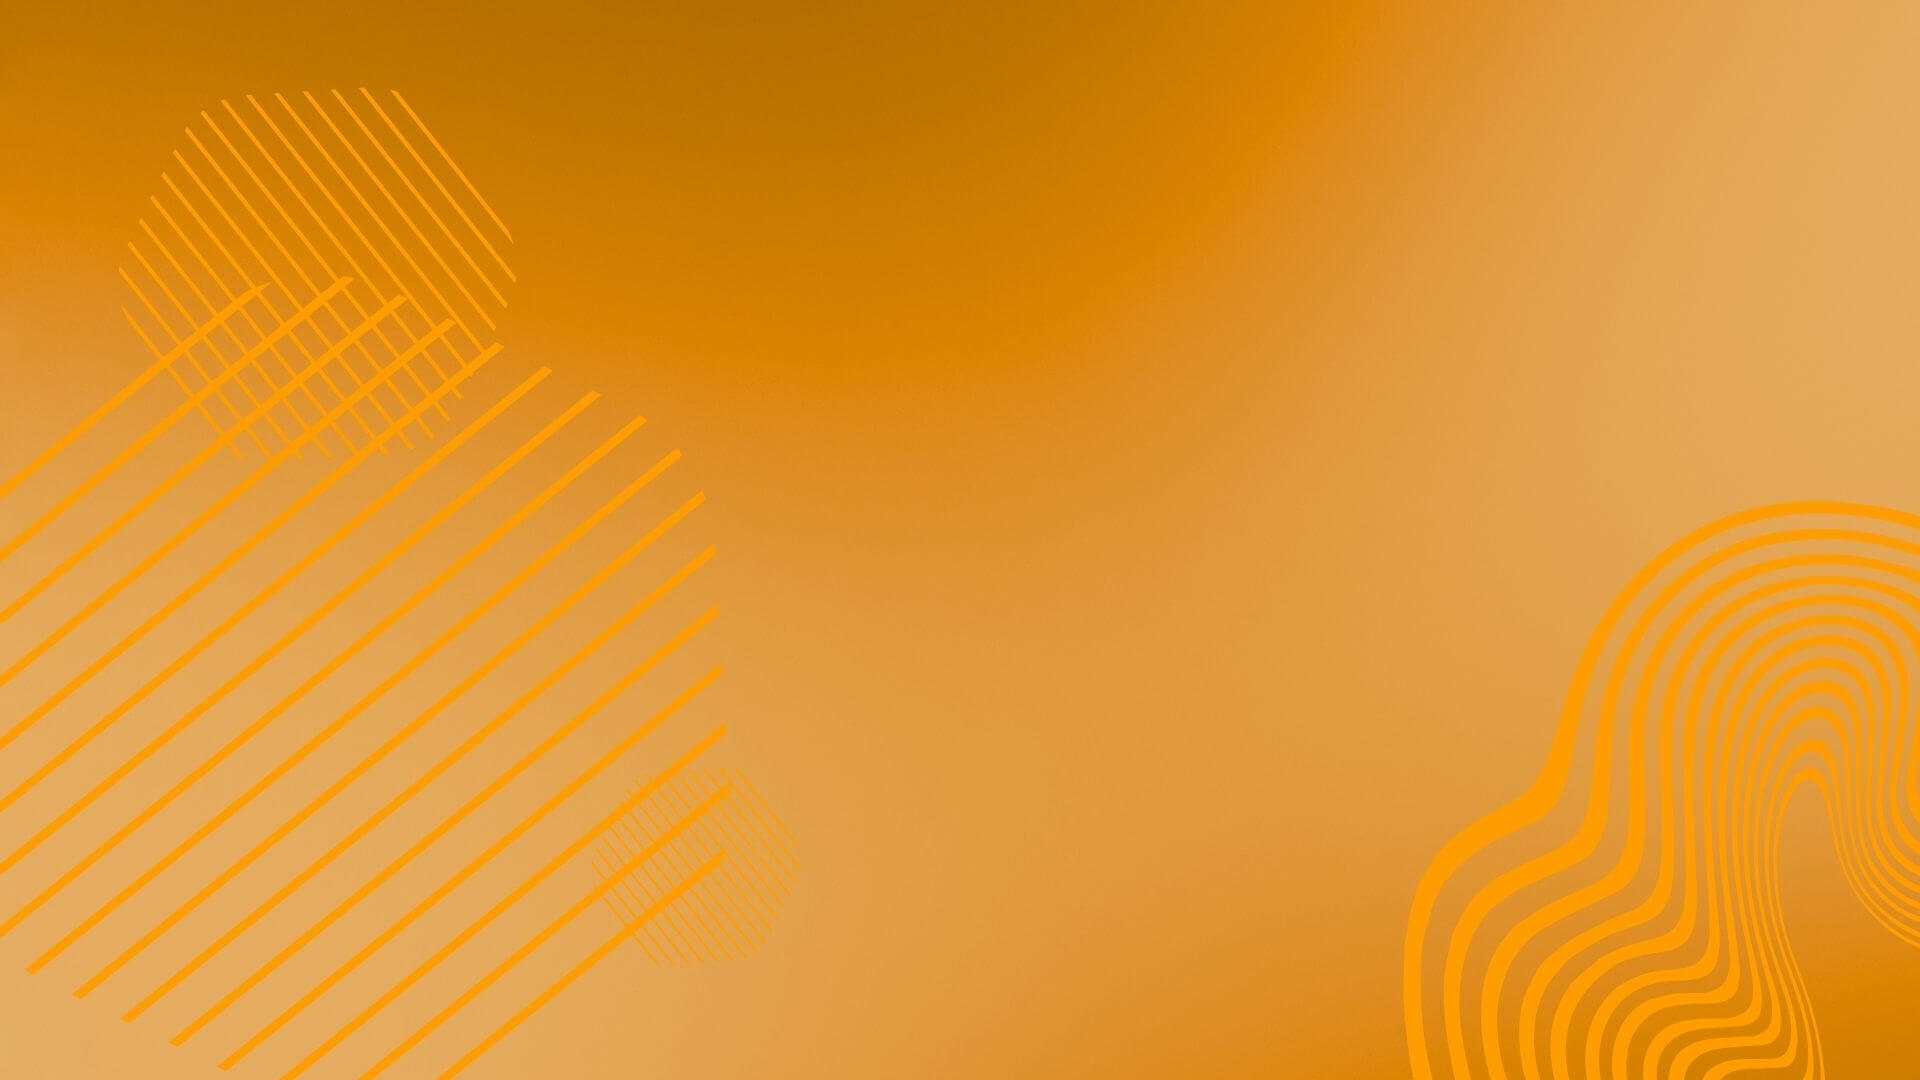
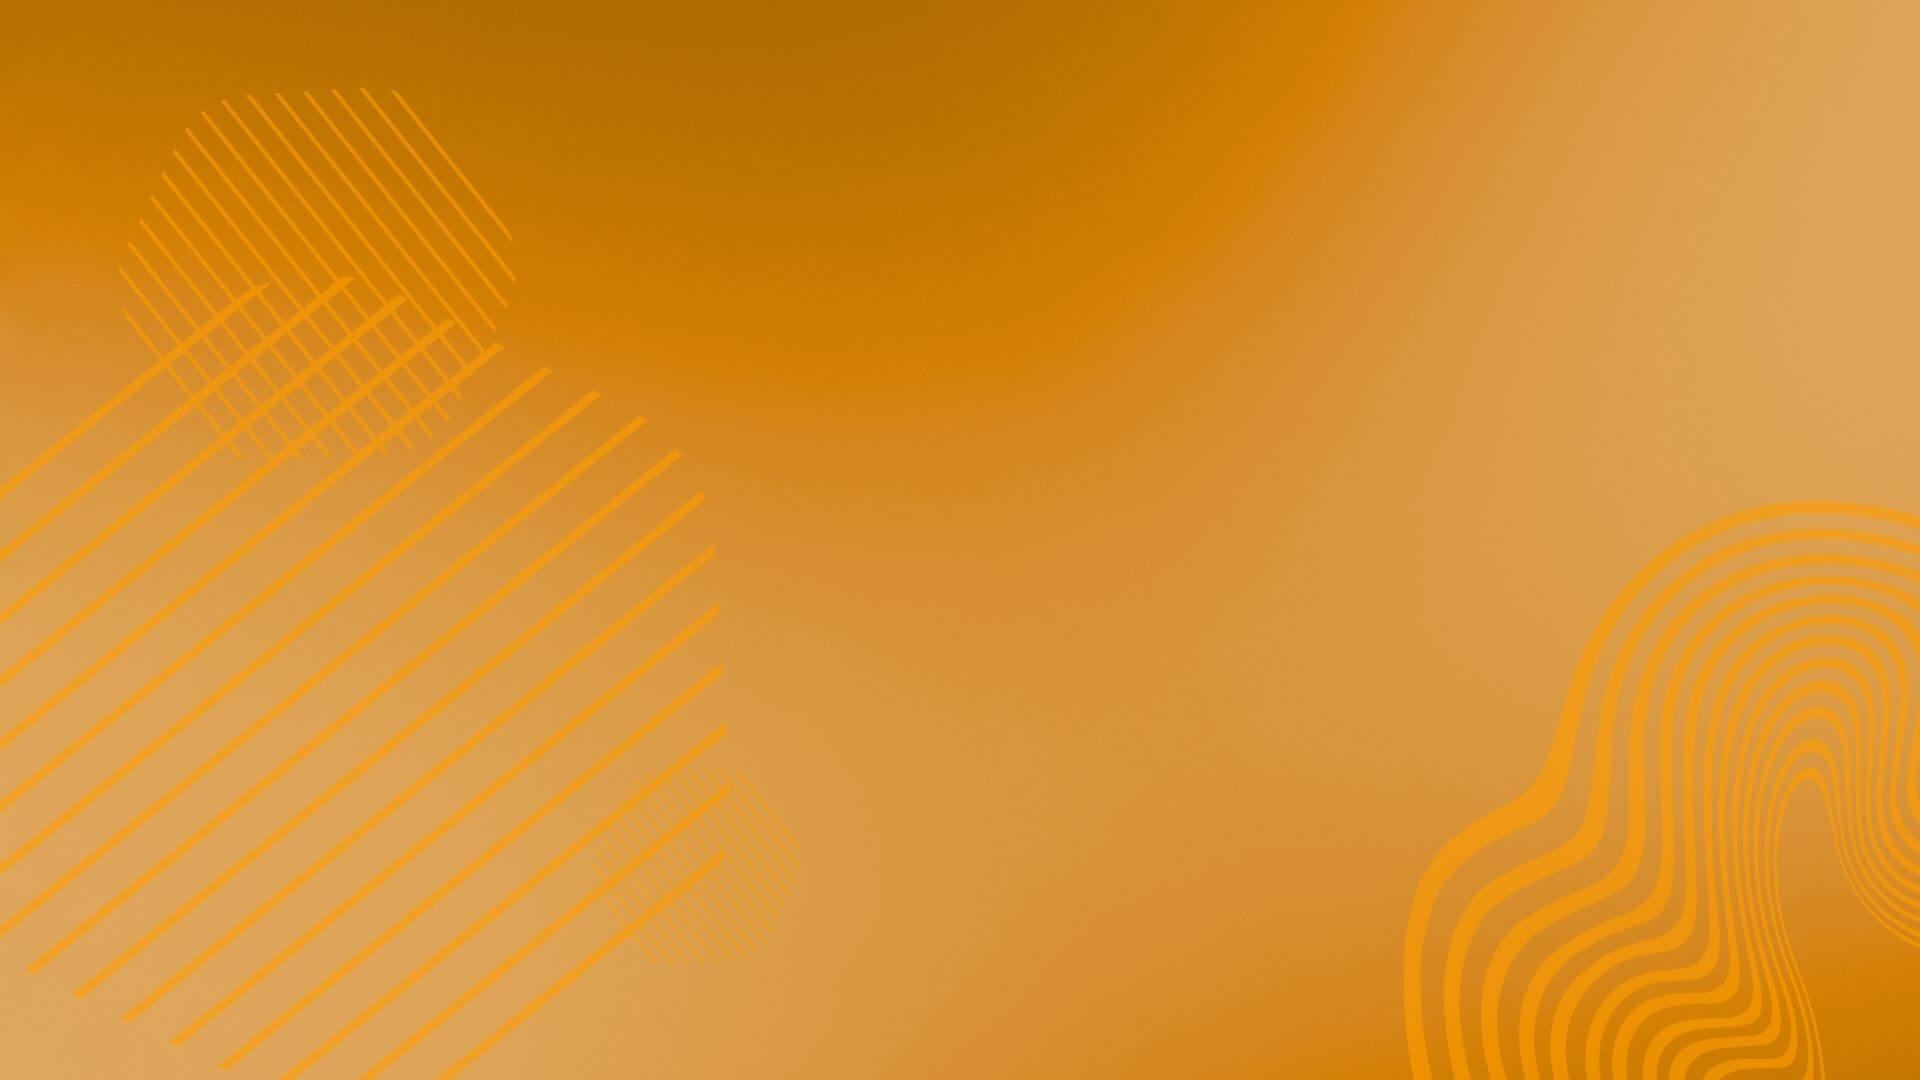
altera bg da emi e funcionaliza os links entre as paginas

diff --git a/wiki-emibonnie/src/components/SectionRenderer.jsx b/wiki-emibonnie/src/components/SectionRenderer.jsx
@@ -153,11 +153,22 @@ export default function SectionRenderer({ section, indiceList }) {
 
           <div className="toggle-div">
             <ul className="lista">
-              {section.elenco.map((item, index) => (
-                <li key={index}>
-                  {item.ator} como {item.personagem}
-                </li>
-              ))}
+              {section.elenco.map((item, index) => {
+                if (item.link) {
+                  return (
+                    <li key={item.link}>
+                      <Link to={item.link}>{item.ator}</Link> como{" "}
+                      {item.personagem}
+                    </li>
+                  );
+                } else {
+                  return (
+                    <li key={index}>
+                      {item.ator} como {item.personagem}
+                    </li>
+                  );
+                }
+              })}
             </ul>
           </div>
 

diff --git a/wiki-emibonnie/src/data/styleMap.jsx b/wiki-emibonnie/src/data/styleMap.jsx
@@ -25,7 +25,7 @@ export const styleMap = {
   "emi-thasorn": {
     "--destaque-primario": "#a86800",
     "--destaque-secundario": "#ff9d00",
-    "--background-image-mobile": "url(/img/bg_img/emi-bg_mobile.png)",
+    "--background-image-mobile": "url(/img/bg_img/emi-bg_mobile.jpg)",
     "--background-image-tablet": "url(/img/bg_img/emi-bg_tablet.jpg)",
     "--background-image-desktop": "url(/img/bg_img/emi-bg_desktop.jpg)",
   },
